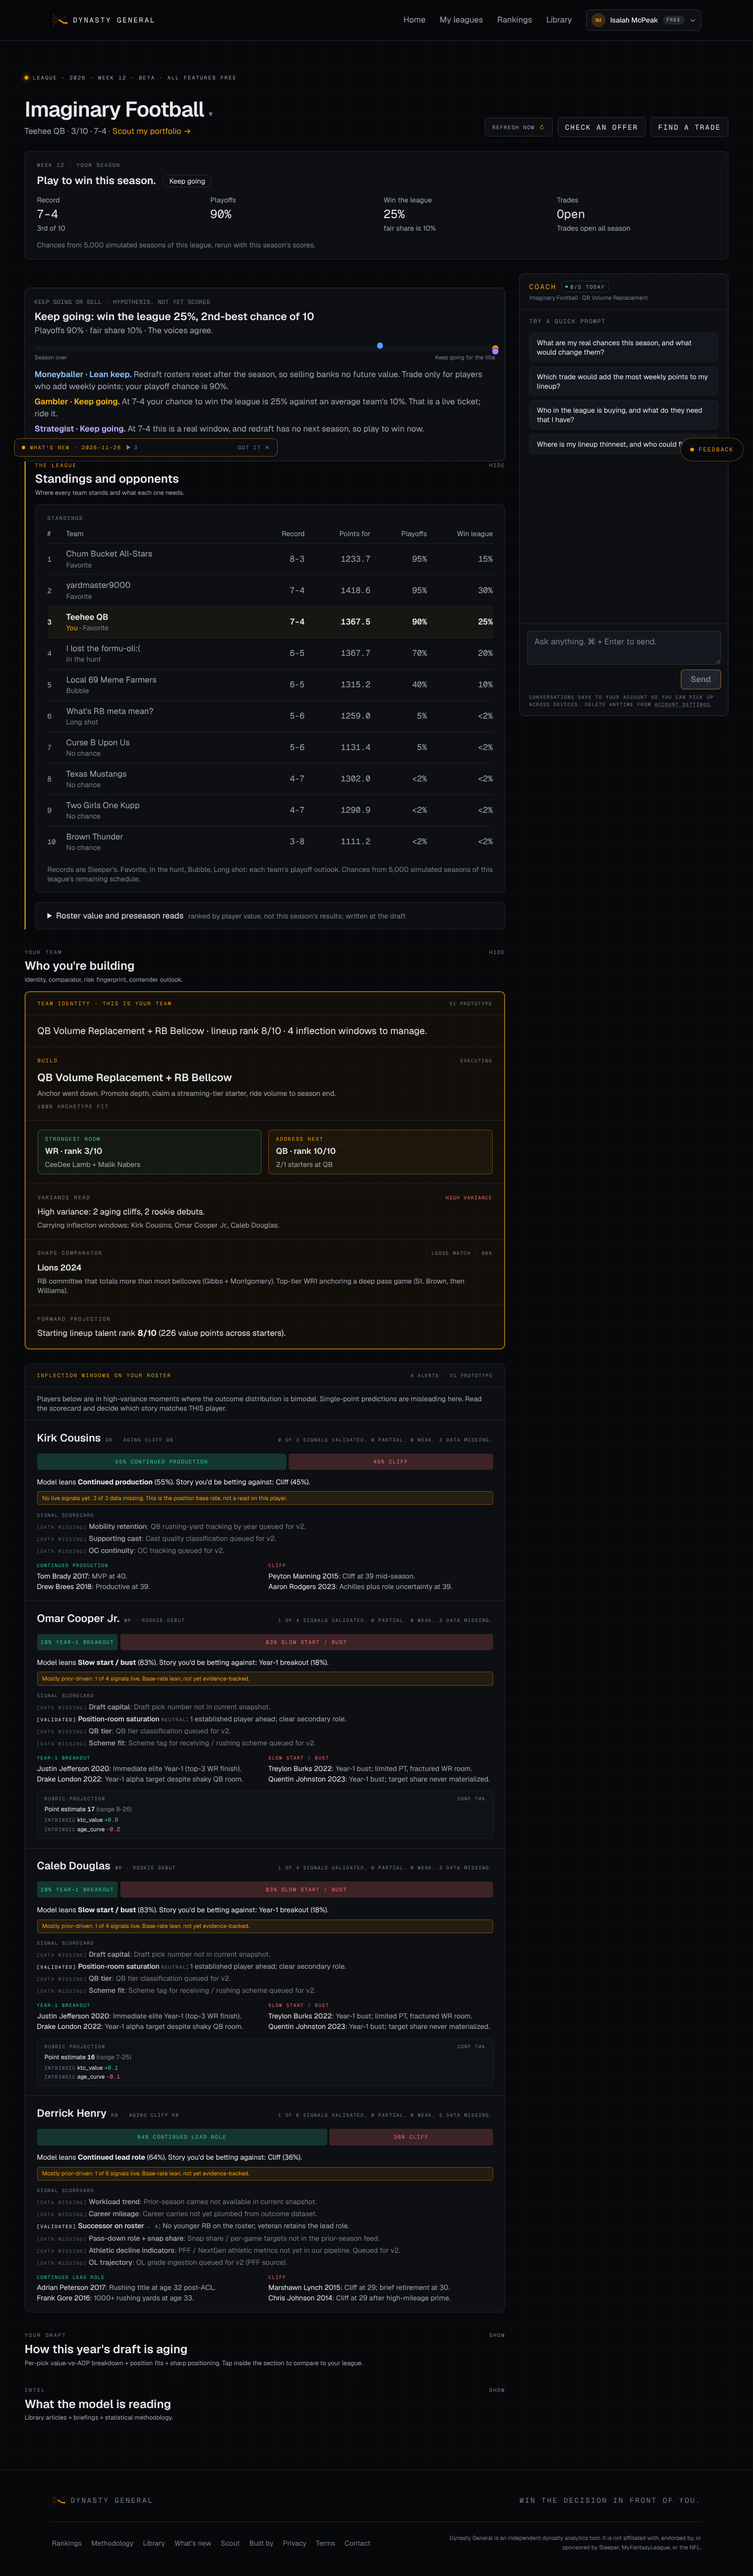
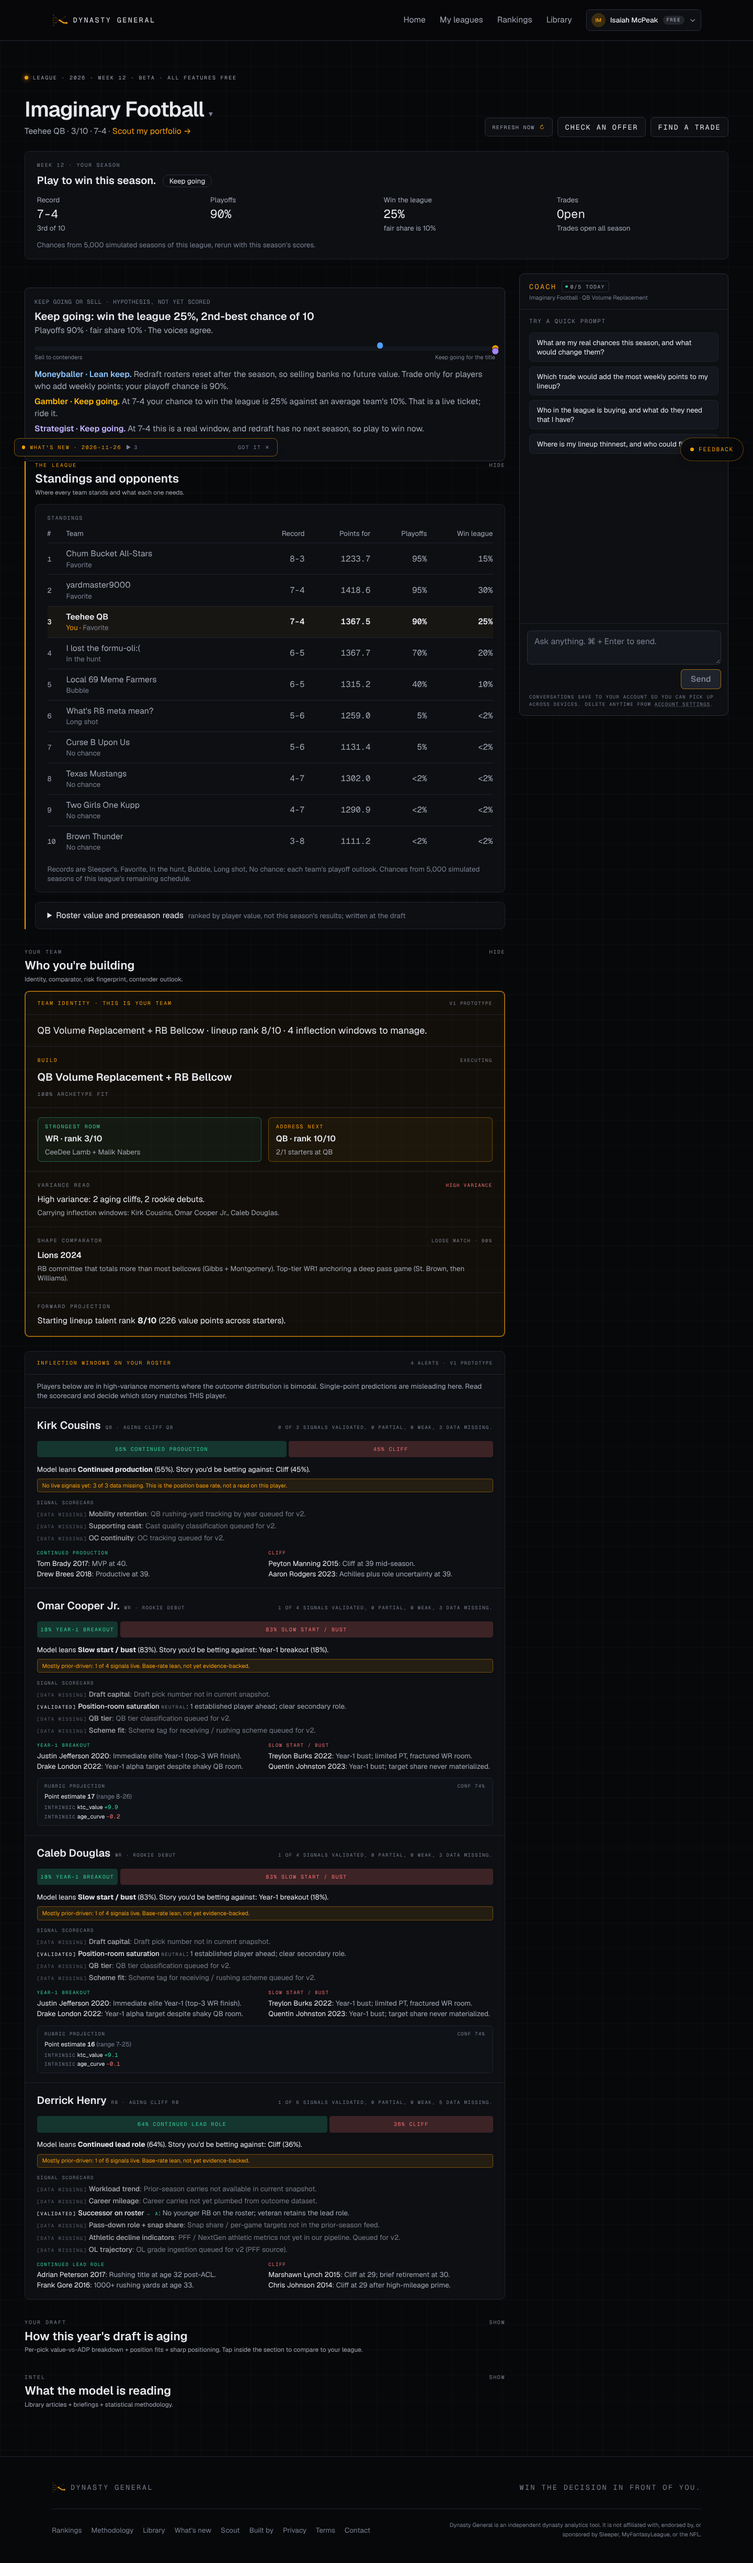
PR 156 design-qa round 2: one multi-year read in-season, no canned archetype tagline, observation wording where moves are closed
- In-season the year-by-year contender outlook is hidden; the Long-term build banner is the single multi-year read (the two models disagreed). Banner drops the 'window not yet projected' line in that mode.
- Team identity: archetype tagline hidden in-season; 'Address next' reads 'Weakest room' when trades or moves are closed; keeper slate values rounded.
- Standings legend names No chance; keep-or-sell scale reads 'Sell to contenders' in redraft too.

Claude-Session: https://claude.ai/code/session_014dZxKd6LALUkPtsHqxYePm

diff --git a/src/app/leagues/[leagueId]/page.tsx b/src/app/leagues/[leagueId]/page.tsx
@@ -3015,7 +3015,13 @@ export default async function LeagueHubPage({
                       }
                     />
                   )}
-                  {teamIdentity && <TeamIdentityPanel data={teamIdentity} />}
+                  {teamIdentity && (
+                      <TeamIdentityPanel
+                        data={teamIdentity}
+                        inSeason={inSeasonLayout}
+                        movesClosed={inSeasonLayout && contendOrSell != null && !contendOrSell.trade_window.open}
+                      />
+                    )}
                   <LibraryTeaser
                     contextTags={(() => {
                       const tags: string[] = ["ADP", "rookies"];
@@ -3073,7 +3079,13 @@ export default async function LeagueHubPage({
                     {inSeasonLayout && rosterPosture && !thisSeasonOnly && (
                       <PostureBanner posture={rosterPosture} longTerm />
                     )}
-                    {teamIdentity && <TeamIdentityPanel data={teamIdentity} />}
+                    {teamIdentity && (
+                      <TeamIdentityPanel
+                        data={teamIdentity}
+                        inSeason={inSeasonLayout}
+                        movesClosed={inSeasonLayout && contendOrSell != null && !contendOrSell.trade_window.open}
+                      />
+                    )}
                     {inSeasonLayout && !thisSeasonOnly && rosterLaneMemberships.length > 0 && (
                       <LaneCohortDistribution memberships={rosterLaneMemberships} />
                     )}
@@ -3096,7 +3108,12 @@ export default async function LeagueHubPage({
                     )}
                     {/* A 5-year contender forecast is dynasty and keeper
                         framing; redraft and best ball rosters reset. */}
-                    {contenderOutlook && !(inSeasonLayout && thisSeasonOnly) && (
+                    {/* In-season, one multi-year read: the long-term
+                        build banner above. The year-by-year outlook is a
+                        second model that can disagree with it (a 0-11
+                        rebuilder read as a 2027 contender), so it shows
+                        before and after the season only. */}
+                    {contenderOutlook && !inSeasonLayout && (
                       <ContenderOutlookCard outlook={contenderOutlook} />
                     )}
                   </DashboardSection>

diff --git a/src/components/league/team-identity-panel.tsx b/src/components/league/team-identity-panel.tsx
@@ -17,7 +17,20 @@
 
 import type { TeamIdentity } from "@/lib/strategy/team-identity";
 
-export function TeamIdentityPanel({ data }: { data: TeamIdentity | null }) {
+export function TeamIdentityPanel({
+  data,
+  inSeason = false,
+  movesClosed = false,
+}: {
+  data: TeamIdentity | null;
+  /** In-season the archetype tagline (a generic scenario, e.g. "Anchor
+   * went down") is not an observation about this roster, so it is left
+   * out. */
+  inSeason?: boolean;
+  /** Best ball or past the deadline: no trades or (best ball) roster
+   * moves, so the weak room is an observation, not a to-do. */
+  movesClosed?: boolean;
+}) {
   if (!data) return null;
   // Only render when at least the build readout has confidence.
   if (data.build.primary_name === "Forming") return null;
@@ -58,7 +71,7 @@ export function TeamIdentityPanel({ data }: { data: TeamIdentity | null }) {
             ? `${data.build.primary_name} + ${data.build.secondary_name}`
             : data.build.primary_name}
         </div>
-        {data.build.description && (
+        {data.build.description && !inSeason && (
           <p className="mt-1 text-xs leading-snug text-muted">
             {data.build.description}
           </p>
@@ -91,7 +104,7 @@ export function TeamIdentityPanel({ data }: { data: TeamIdentity | null }) {
           {data.position_room.weakest && (
             <div className="rounded-md border border-warning/40 bg-warning/5 px-3 py-2">
               <div className="font-mono text-[10px] uppercase tracking-[0.16em] text-warning">
-                Address next
+                {movesClosed ? "Weakest room" : "Address next"}
               </div>
               <div className="mt-1 text-sm font-semibold text-foreground">
                 {data.position_room.weakest.position} · rank{" "}
@@ -190,7 +203,7 @@ export function TeamIdentityPanel({ data }: { data: TeamIdentity | null }) {
               {data.forward.keeper_slate.map((p) => (
                 <li key={p.player_id}>
                   · <span className="font-semibold">{p.player_name}</span>{" "}
-                  <span className="text-muted">(value {p.value})</span>
+                  <span className="text-muted">(value {Math.round(p.value)})</span>
                 </li>
               ))}
             </ul>

diff --git a/src/components/league/season-standings.tsx b/src/components/league/season-standings.tsx
@@ -91,7 +91,7 @@ export function SeasonStandings({
         {medianGames
           ? "Records are Sleeper's and include a game against the league median each week. "
           : "Records are Sleeper's. "}
-        {odds ? "Favorite, In the hunt, Bubble, Long shot: each team's playoff outlook. " : ""}
+        {odds ? "Favorite, In the hunt, Bubble, Long shot, No chance: each team's playoff outlook. " : ""}
         {odds && showSellers ? `${ROLE_DEFINITIONS.seller}. ` : ""}
         {odds && sims
           ? `Chances from ${sims.toLocaleString("en-US")} simulated seasons of this league's remaining schedule${medianGames ? ", median games included" : ""}.`

diff --git a/src/components/league/posture-banner.tsx b/src/components/league/posture-banner.tsx
@@ -157,9 +157,11 @@ export function PostureBanner({
         {posture.headline}
       </p>
 
-      <p className="mt-1 text-xs leading-snug text-muted">
-        {posture.contender_window.why}
-      </p>
+      {!(longTerm && posture.contender_window.peak_year == null) && (
+        <p className="mt-1 text-xs leading-snug text-muted">
+          {posture.contender_window.why}
+        </p>
+      )}
 
       {posture.signals.length > 0 && (
         <ul className="mt-3 space-y-0.5 text-[11px] leading-snug text-muted-2">

diff --git a/src/components/league/contend-or-sell-card.tsx b/src/components/league/contend-or-sell-card.tsx
@@ -103,7 +103,7 @@ export function ContendOrSellCard({ verdict }: { verdict: ContendOrSellVerdict }
           })}
         </div>
         <div className="mt-1 flex justify-between text-[11px] text-muted-2">
-          <span>{v.horizon === "this_season" ? "Season over" : "Sell to contenders"}</span>
+          <span>Sell to contenders</span>
           <span>Keep going for the title</span>
         </div>
       </div>
